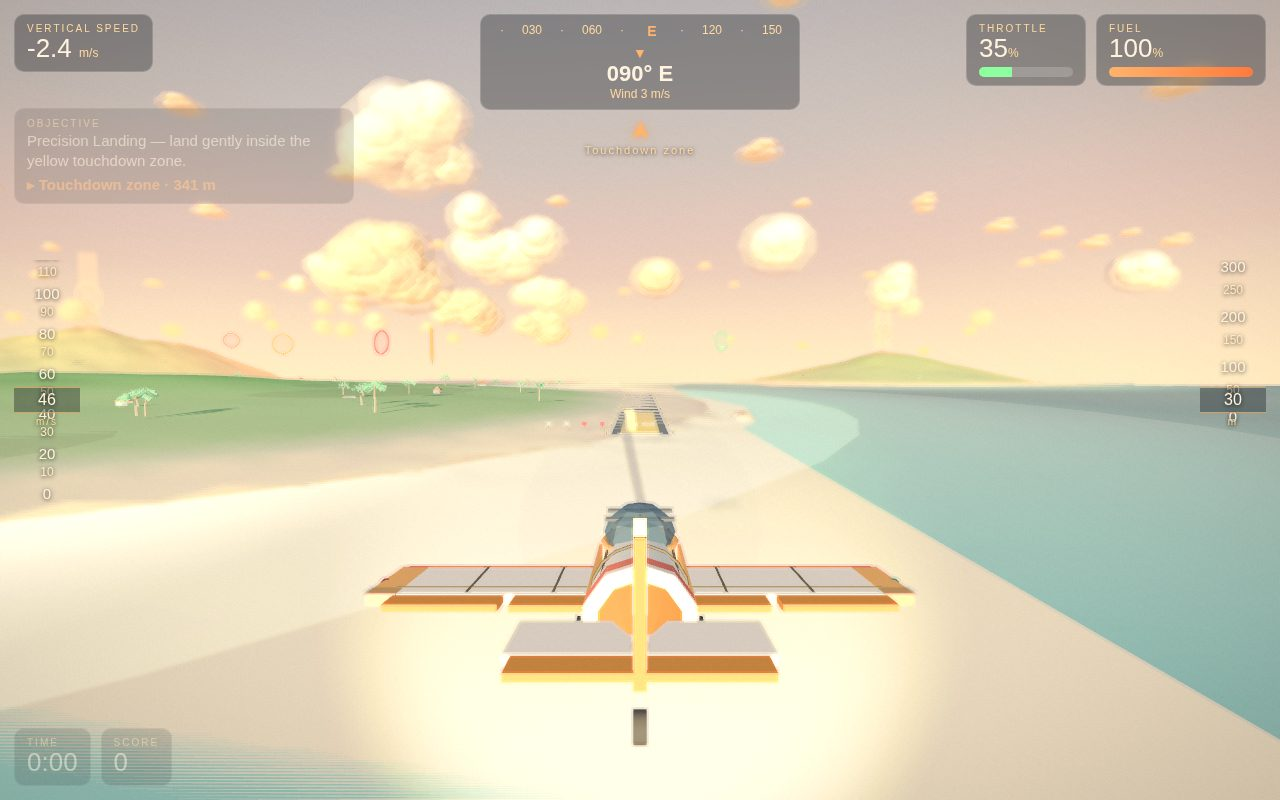
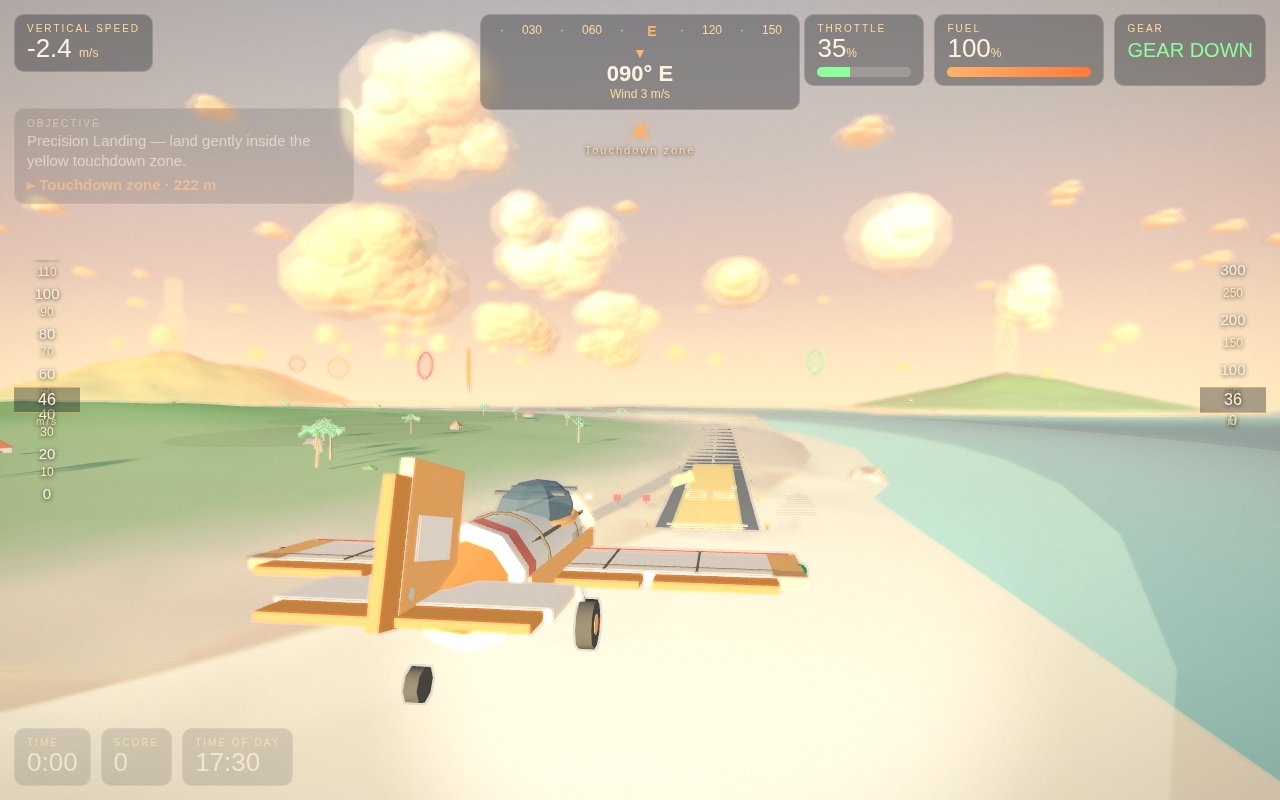
R4-4: landing retake (closer approach, gear down, threshold readable)

diff --git a/game/src/shots.js b/game/src/shots.js
@@ -99,12 +99,22 @@ export function createShots(render, flight, world, missions) {
     } else if (name === 'landing') {
       // Final approach from the west, nose slightly down, throttle
       // back: the lit runway and the yellow touchdown zone ahead.
-      // Close enough (340 m out) that the asphalt strip reads clearly.
-      // Posed at 30 m (was 38 m) so the plane's shadow falls close
-      // enough to read in the frame instead of far down the beach.
+      // R4-4 retake: 150 m out from the touchdown-zone start (-290)
+      // and 36 m up, so the asphalt strip, the yellow zone and the
+      // lit threshold fill the frame instead of reading as a thin
+      // distant strip. Gear down for the shot (R4-2).
       startForShot(3, 'free');
-      pose(-560, 30, rw.z, -90, -3, 46, 0.35);
+      pose(-440, 36, rw.z, -90, -3, 46, 0.35);
+      flight.state.gearDown = true;
+      flight.state.gearDeploy = 1;
       render.setView('chase');
+      // Slight 3/4 rear orbit: straight chase hides the main wheels
+      // edge-on behind the wing, so the gear never reads. A small
+      // offset shows both main wheels as discs + the tail wheel
+      // while the runway stays in frame. (snap() below keeps it.)
+      if (render && typeof render.addLook === 'function') {
+        render.addLook(-70, -40);
+      }
     }
 
     // Teleporting the plane leaves the camera far behind: snap it to
